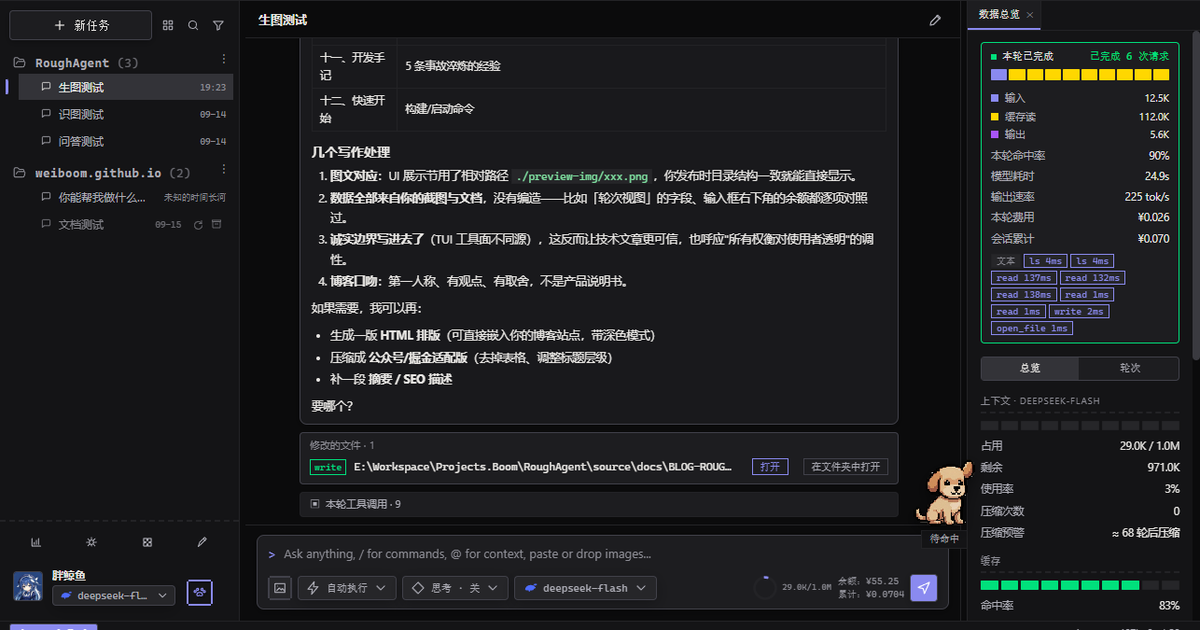
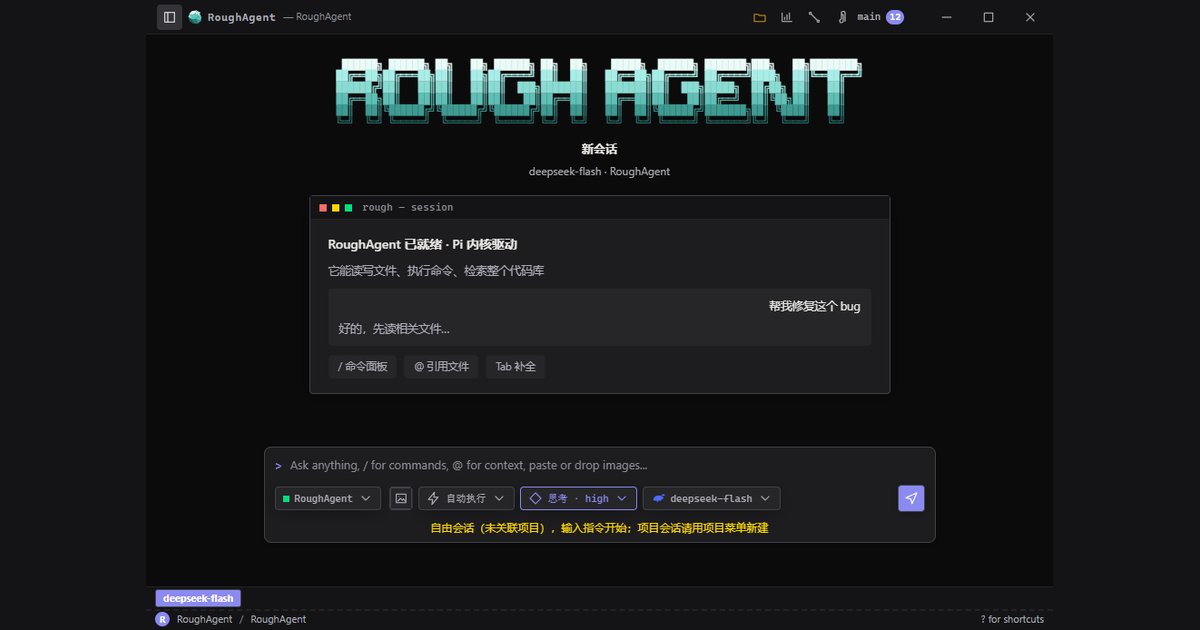
docs: 更新 RoughAgent 文章标签/摘要并替换封面
- tags 补 AI文章，并修正误用全角逗号（YAML 会把它当成一个标签"三端共享，AI文章"）
- 精简 description 与封面 alt，删除多余的一行引用
- 新封面重排为 Chirpy 的 40/21 比例：原图 999x694 会被 object-fit:cover 纵向裁掉
  logo 上半部；改为以原图底色 (20,20,22) 补齐两侧至 1200x630，画面零裁切

diff --git a/_posts/2026-09-16-RoughAgent.md b/_posts/2026-09-16-RoughAgent.md
@@ -2,16 +2,15 @@
 title: RoughAgent：一个独属于我的个人 Agent
 date: 2026-09-16
 categories: [Blogging]
-tags: [个人Agent, RoughEngine, Pi内核, Tauri, 前缀缓存, 桌宠丢丢, 三端共享]
+tags: [个人Agent, RoughEngine, Pi内核, Tauri, 前缀缓存, 桌宠丢丢, 三端共享, AI文章]
 media_subpath: /assets/img/posts/roughagent
 image:
   path: cover.png
-  alt: RoughAgent 桌面端 —— 左边是正在写这篇文章的对话，右边是这一轮的数据总览
-description: Rough 不是粗糙，是"有待打磨"。一个跑在自己电脑上的个人 Agent——三端共享同一核心，把每一分钱花在哪里量化到像素级，还有一只叫丢丢的小狗陪我熬夜写代码。
+  alt: RoughAgent 桌面端
+description: Rough不是粗制滥造，而是需要用心打磨
 ---
 
 > **这篇文章本身，就是 RoughAgent 写的。**
-> 下面截图里你看到的，就是它写这篇文章的实时现场。
 
 ---
 
